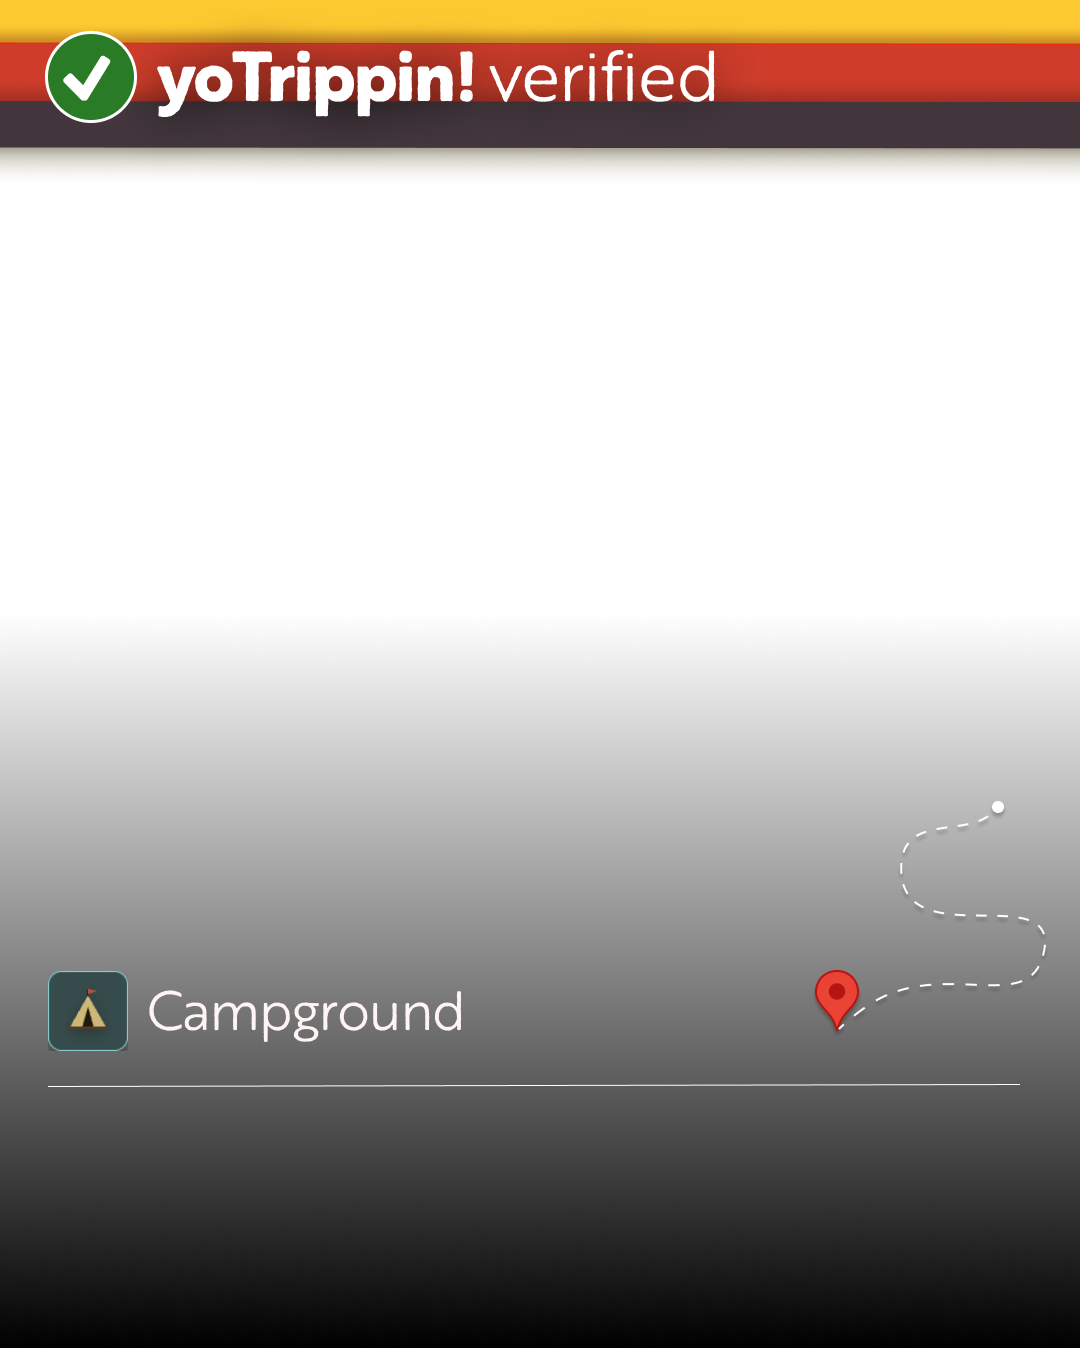
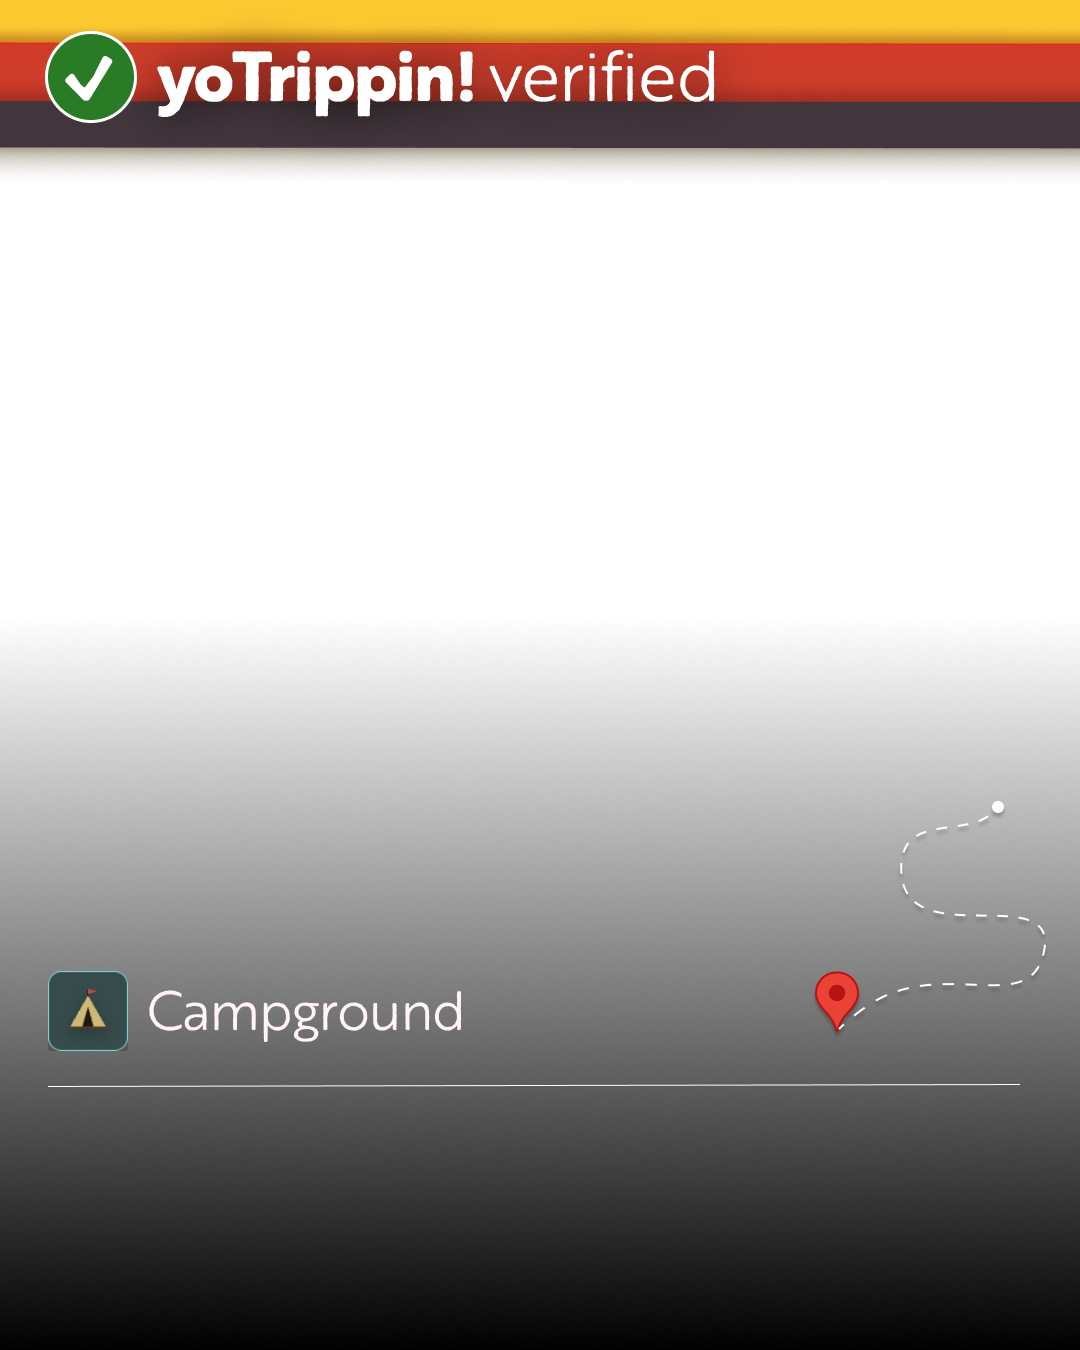
feat(data): update brand frame to the full-height 1080x1350 asset
Adam remade branding.png at the exact canvas size (1080x1350, was 1080x1348),
so the frame now maps 1:1 to the post with no bottom peek at the source. Updates
both the tracked source (assets/socialmedia/branding.png) and the runtime asset
(data/pin-of-the-week/brand/header.png); the edge-to-edge draw stays as a guard.

Gates green: data typecheck clean; 58 pin-of-the-week vitest tests pass.

diff --git a/data/pin-of-the-week/composite.ts b/data/pin-of-the-week/composite.ts
@@ -169,9 +169,9 @@ export async function compositePost(opts: CompositeOptions): Promise<Buffer> {
 /**
  * Draw the REAL full-frame brand asset (brand/header.png = branding.png — the
  * yoTrippin! header band + transparent body + baked scrim, category label,
- * divider and route decoration) to fill the ENTIRE canvas. The asset is sized
- * for the full 1080x1350 post (it's ~1080x1348), so it's drawn edge-to-edge to
- * cover the bottom too — otherwise a few px of the photo peek out below it.
+ * divider and route decoration) to fill the ENTIRE canvas. The asset is a full
+ * 1080x1350 post frame, drawn edge-to-edge (0,0,W,H) — a slightly-short asset
+ * would otherwise let a few px of the photo peek out below it.
  * Uses the true brand art, not a recreation. Skipped gracefully if absent.
  */
 async function drawFrame(ctx: SKRSContext2D, W: number, H: number): Promise<void> {
